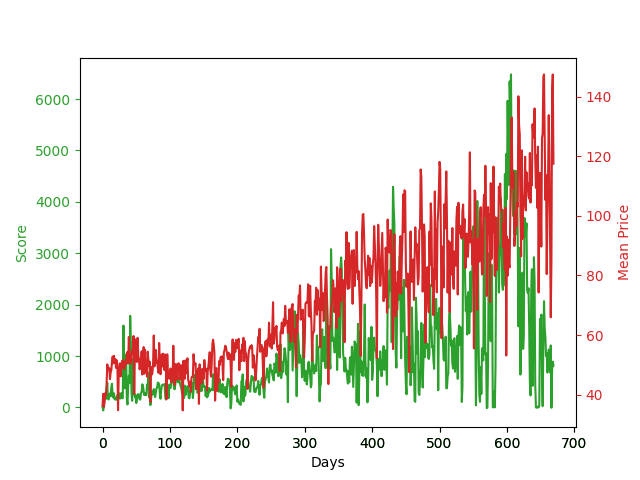
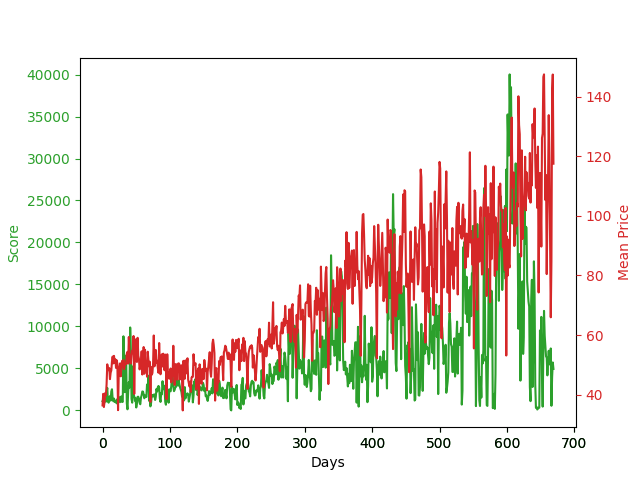
Working version without time considered

diff --git a/main.py b/main.py
@@ -30,19 +30,12 @@ def plot_env(x, charge, exchange, filename, should_show, lines=None):
     x1.tick_params(axis='x', colors="k")
     x1.tick_params(axis='y', colors="C0")
 
-
-    N = len(charge)
-    running_avg = np.empty(N)
-    for t in range(N):
-        running_avg[t] = np.mean(charge[max(0, t-20):(t+1)])
-
     x2.plot(x, charge, color="C1")
     x2.set_ylabel("Charge", color="C1")
     x2.yaxis.set_label_position('right')
     x2.yaxis.tick_right()
     x2.tick_params(axis='x', colors="k")
     x2.tick_params(axis='y', colors="C1")
-
 
     if lines is not None:
         for line in lines:
@@ -65,11 +58,6 @@ def plot_env_score(x, score, filename, should_show, lines=None):
     x1.tick_params(axis='x', colors="C2")
     x1.tick_params(axis='y', colors="C2")
 
-    N = len(score)
-    running_avg = np.empty(N)
-    for t in range(N):
-        running_avg[t] = np.mean(score[max(0, t-20):(t+1)])
-    
     arr_mean_price = []
     temp = []
     for i in range(len(x)):
@@ -205,7 +193,7 @@ class Agent():
 
         #Loading model
         device = torch.device("cuda:0" if torch.cuda.is_available() else "cpu")
-        self.Q_eval.load_state_dict(torch.load("SameTest.pth",device))
+        self.Q_eval.load_state_dict(torch.load("Q_Eval_Days4k_Info3h_Step10min.pth.pth",device))
 
         self.state_memory = np.zeros((self.mem_size, *input_dims), dtype=np.float32)
         self.new_state_memory = np.zeros((self.mem_size, *input_dims), dtype=np.float32)
@@ -267,8 +255,8 @@ class Agent():
 
 def deep_q_agent(days, step_period, show):
     env = Home_Enviroment(step_period,data)
-    agent = Agent(gamma=0.99, epsilon=0.05, batch_size=32, n_actions=2, 
-                eps_end=0.001, eps_dec=5e-5, input_dims=[4], lr=0.001)
+    agent = Agent(gamma=0.99, epsilon=0.01, batch_size=32, n_actions=2, 
+                eps_end=0.001, eps_dec=5e-6, input_dims=[4], lr=0.001)
     scores, eps_history = [],[]
     action_count = [0,0,0]
 
@@ -310,21 +298,21 @@ def deep_q_agent(days, step_period, show):
 
     print(action_count)
     
-    #torch.save(agent.Q_eval.state_dict(), "SameTest.pth")
+    #torch.save(agent.Q_eval.state_dict(), "Q_Eval_Days4k_Info3h_Step10min.pth.pth")
 
 #All functions use (Days, Step_Period(60 = 1 min), Show graph)
 if __name__ == "__main__":
     start_time = time.time()
     days = 670
-    step = 60*60
-    #print("\n-----------------------------------------------------------------------------------------------\n")
-    #if_step_sell(days, step, False)
-    #print("\n-----------------------------------------------------------------------------------------------\n")
-    #only_sell(days, step, False)
-    #print("\n-----------------------------------------------------------------------------------------------\n")
-    #only_buy(days, step, False)
-    #print("\n-----------------------------------------------------------------------------------------------\n")
-    #test_rewards(days, step, False)
+    step = 60*10
+    print("\n-----------------------------------------------------------------------------------------------\n")
+    if_step_sell(days, step, False)
+    print("\n-----------------------------------------------------------------------------------------------\n")
+    only_sell(days, step, False)
+    print("\n-----------------------------------------------------------------------------------------------\n")
+    only_buy(days, step, False)
+    print("\n-----------------------------------------------------------------------------------------------\n")
+    test_rewards(days, step, False)
     print("\n-----------------------------------------------------------------------------------------------\n")
     deep_q_agent(days, step, False)
     print("\n-----------------------------------------------------------------------------------------------\n")
